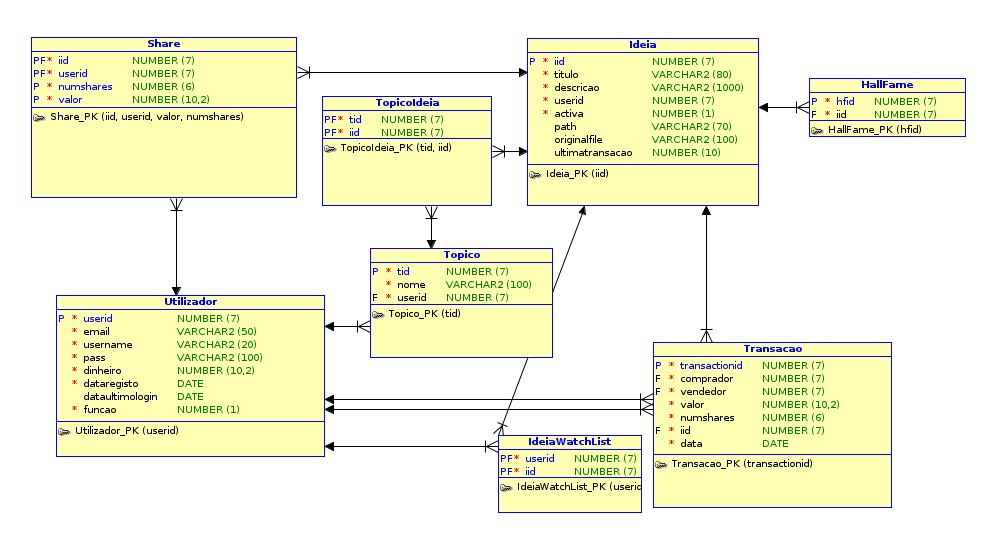
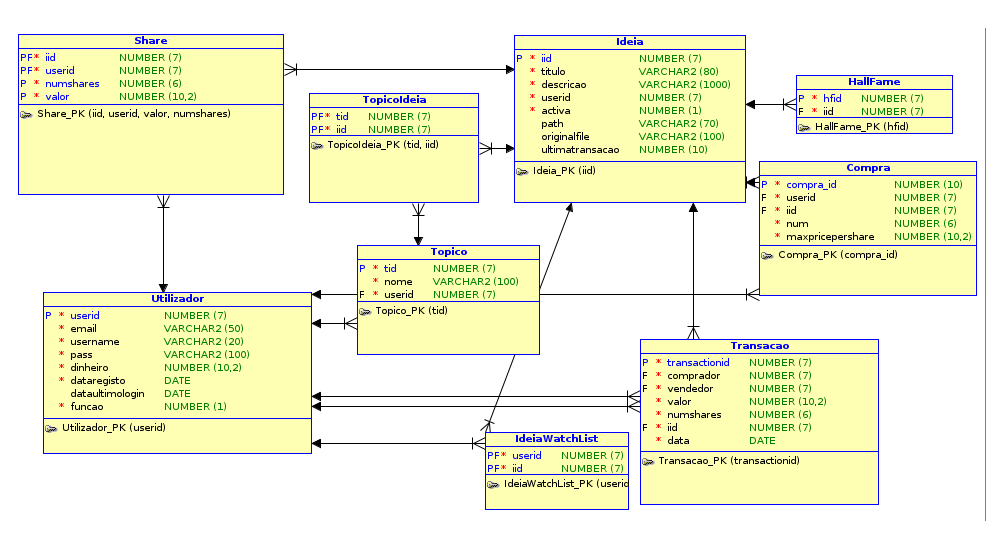
New table in the database

Changed region(s): [[0.0, 0.0618, 0.992, 0.5564], [0.031, 0.4327, 0.899, 0.9582], [0.682, 0.5255, 0.713, 0.5564]]

diff --git a/webapp/IdeaBroker/src/main/resources/rmiserver/RMI_Server.java b/webapp/IdeaBroker/src/main/resources/rmiserver/RMI_Server.java
@@ -1454,6 +1454,38 @@ public class RMI_Server extends UnicastRemoteObject implements RMI_Interface {
     }
 
     /**
+     * Insert a buying order into the buySharesQueue.
+     * @param userid
+     * @param iid
+     * @param num
+     * @param maxpricepershare
+     * @param conn
+     * @return
+     */
+    private int insertIntoQueue(int userid, int iid, int num, float maxpricepershare, Connection conn){
+        String query = "INSERT INTO Compra VALUES (fila_seq.nextval," + userid + "," + iid + "," + num + "," +
+                maxpricepershare + ")";
+
+        insertData(query,conn);
+    }
+
+    /**
+     * Remove a buying order from the buyShareQueue.
+     * @param userid
+     * @param iid
+     * @param num
+     * @param maxpricepershare
+     * @param conn
+     */
+    private void removeFromQueue(int id,Connection conn){
+        String query = "Delete from Compra where compra_id = " + id;
+
+        insertData(query,conn);
+    }
+
+    //Funcao que vai buscar o pedido que tem o id menor, e devolve os campos todos
+
+    /**
      * Set up the number of shares for a given idea, and the price of each share for that idea
      * @param uid   The User's id
      * @param iid   The id of the idea
